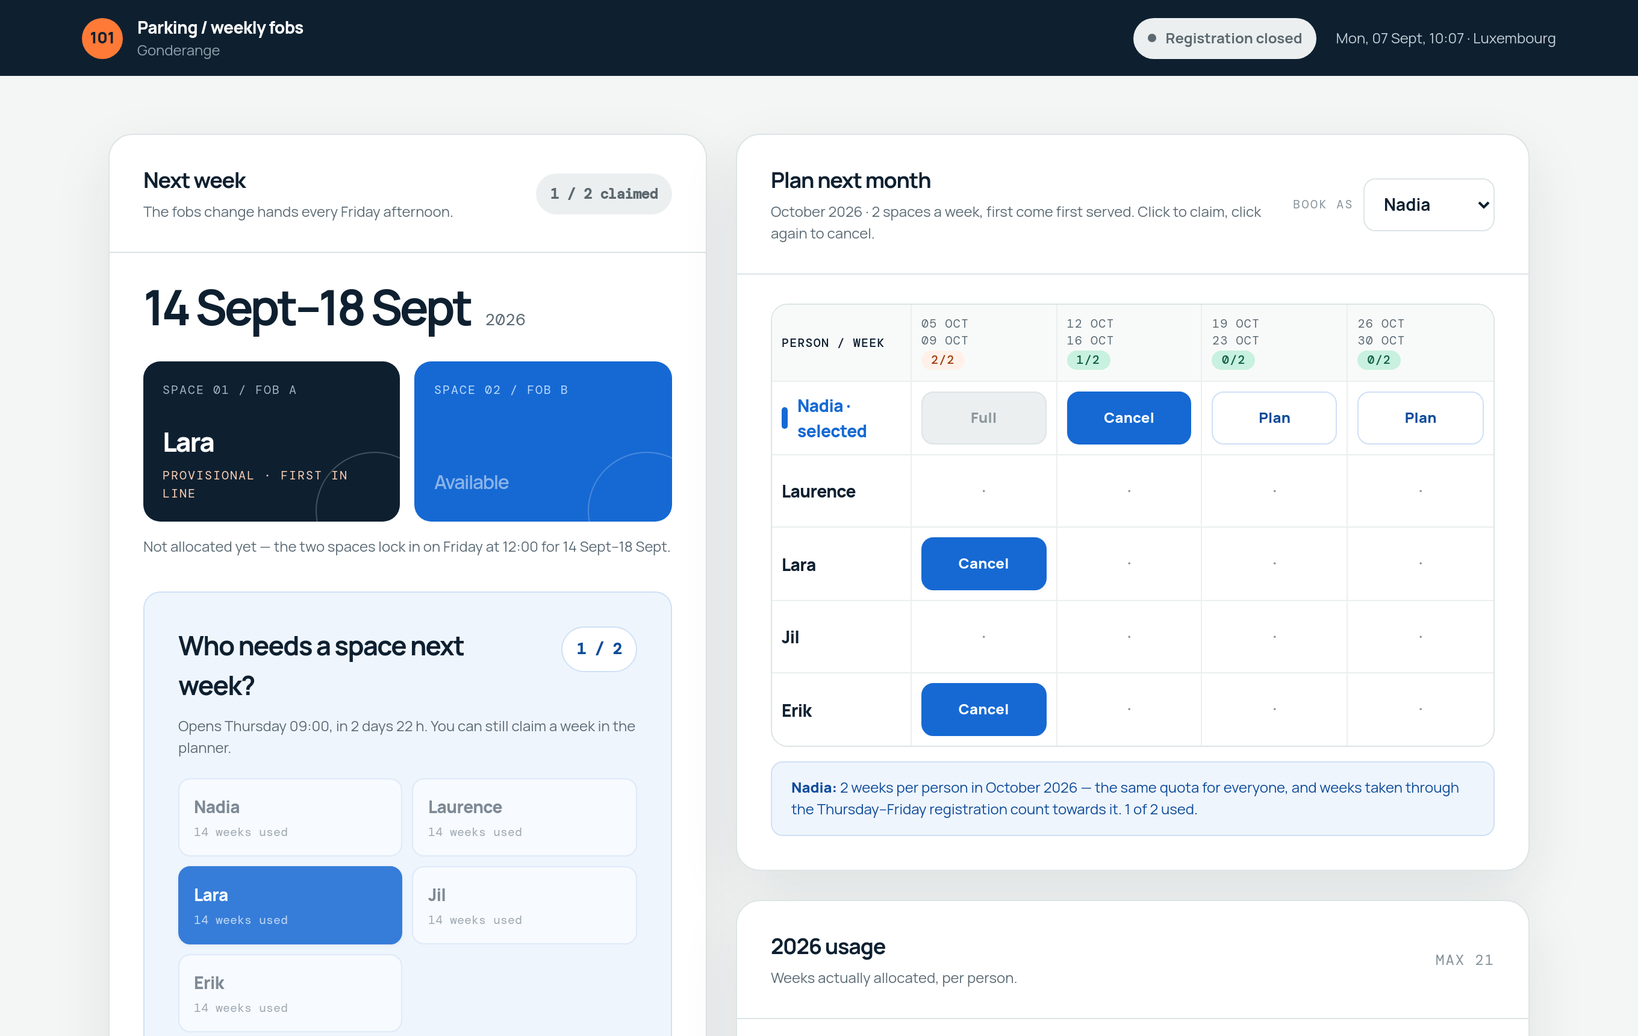
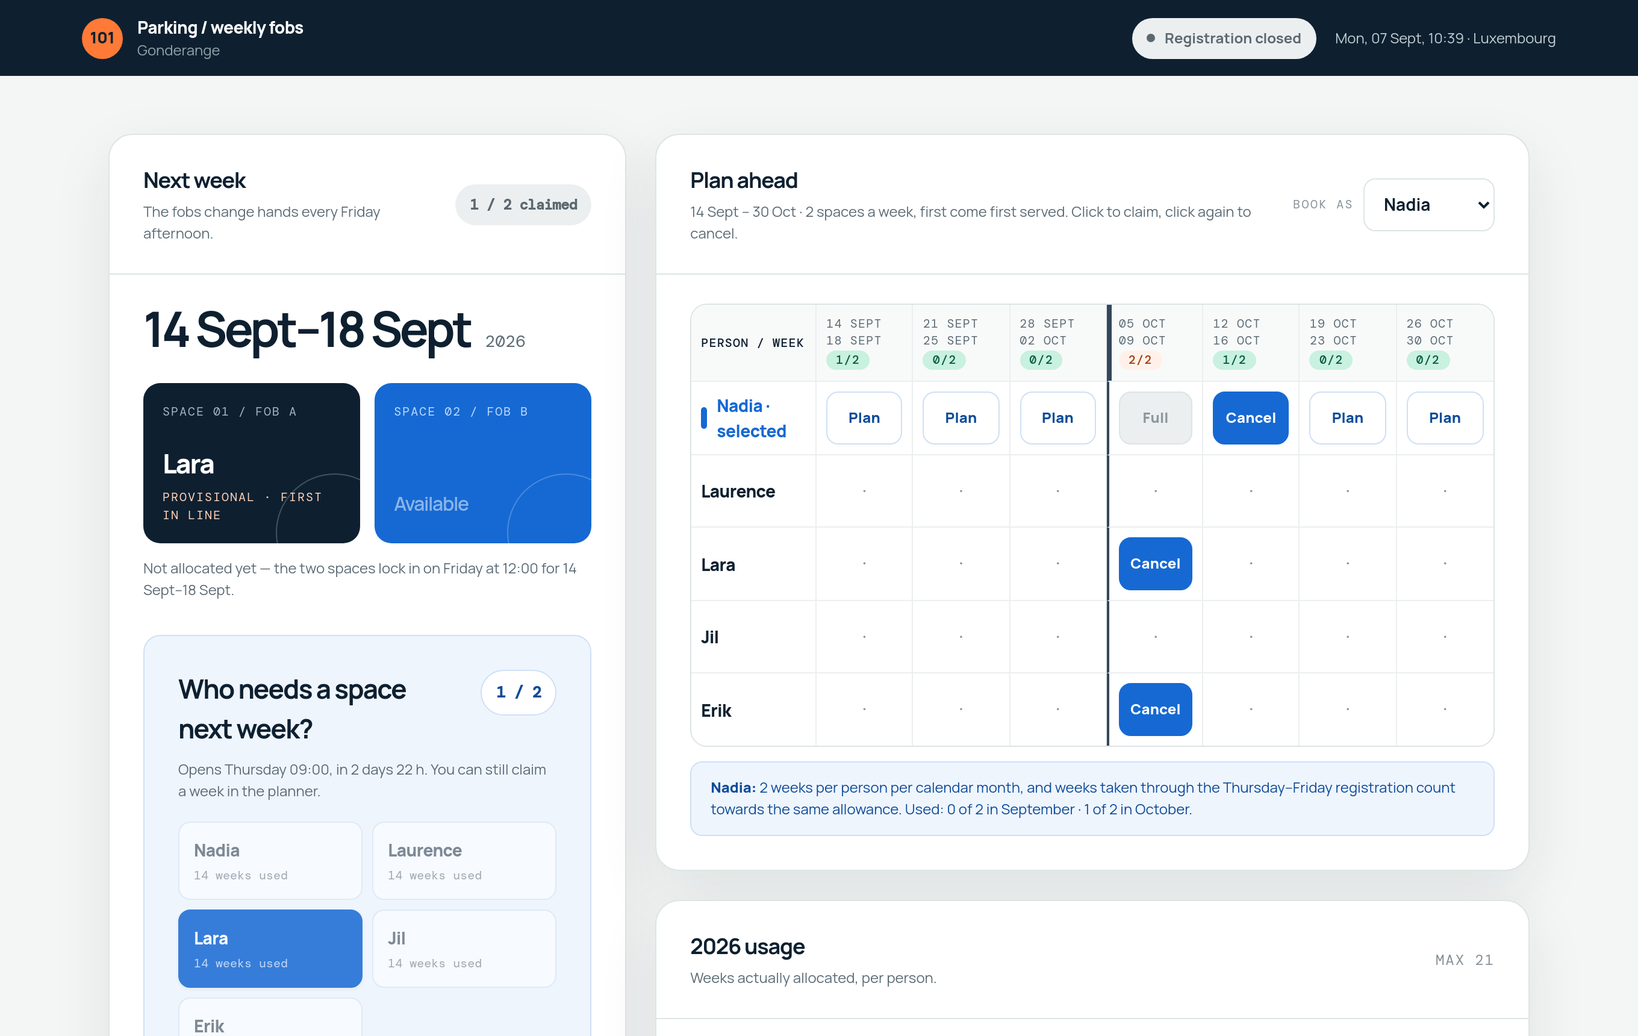
Open planning from next week, not from next month
Planning ran on next calendar month only, which left a dead zone across the rest
of the current one. On Monday 7 September the week of the 14th was seven days out
and unbookable by either route: the planner refused it as "not next month" and the
Thursday registration window had not opened yet. Both refusals were reproduced
before changing anything.

The horizon is now the coming Monday to the end of next month. That spans two
calendar months, so the two-a-month quota is billed to the month owning each week
rather than to next month wholesale, and the page carries usage for both. Booking
the 14th now lands in September's allowance, leaving October's untouched.

The grid grew with it. The horizon is 4 to 9 weeks depending on where the month
boundary falls, 9 on 54 days a decade, so the columns are sized for the widest
case instead of clipping the last one, with a rule marking where the quota resets
and a denser type size for the eight and nine column cases. On mobile the cards
group under a month heading.

The per-week "Holiday" label moved into the column header. A public holiday is a
property of the week, not of each person's cell, so it was being repeated five
times per week and it was the one label that would not fit a narrow column.

Verified: the running week and anything earlier are still refused, so is anything
past next month, each month keeps its own two weeks, and a plan on next week
interlocks with the weekly registration rather than opening a second pool.

diff --git a/parking.php b/parking.php
@@ -110,6 +110,25 @@ function parking_next_month(): array {
     return ['year' => (int)$first->format('Y'), 'month' => (int)$first->format('n'), 'value' => $first->format('Y-m')];
 }
 
+// Every week that can be planned right now: from the coming Monday to the end of next month.
+// Planning used to open on next month only, which left a dead zone across the rest of the
+// current one — on Monday the 7th nobody could claim the week of the 14th, because the
+// planner refused it and the Thursday registration window had not opened yet.
+function parking_planner_weeks(): array {
+    $tz = new DateTimeZone('Europe/Luxembourg');
+    $now = new DateTimeImmutable('now', $tz);
+    $from = parking_monday($now)->format('Y-m-d');
+    $next = parking_next_month();
+    $weeks = array_merge(
+        parking_month_weeks((int)$now->format('Y'), (int)$now->format('n')),
+        parking_month_weeks($next['year'], $next['month'])
+    );
+    // The running week and anything before it are settled already, so they drop out here.
+    $weeks = array_values(array_unique(array_filter($weeks, fn(string $w): bool => $w >= $from)));
+    sort($weeks);
+    return $weeks;
+}
+
 // A Monday–Friday week belongs to the month holding its Wednesday, so every week counts
 // towards exactly one monthly quota even when it straddles two months.
 function parking_month_weeks(int $year, int $month): array {
@@ -315,11 +334,20 @@ function parking_state(PDO $pdo): array {
     parking_auto_allocate($pdo, $nextWeek);
     $nextMonth = parking_next_month();
     $plans = array_fill_keys(PARKING_MEMBERS, []);
-    $planWeeks = parking_month_weeks($nextMonth['year'], $nextMonth['month']);
+    $planWeeks = parking_planner_weeks();
     $allowed = array_flip($planWeeks);
     $stmt = $pdo->prepare('SELECT member_name, week_start FROM monthly_plans WHERE week_start BETWEEN ? AND ? ORDER BY week_start');
-    $stmt->execute([$planWeeks[0] ?? "$nextMonth[value]-01", end($planWeeks) ?? "$nextMonth[value]-31"]);
+    $stmt->execute([$planWeeks[0], end($planWeeks)]);
     foreach ($stmt as $row) if (isset($allowed[$row['week_start']])) $plans[$row['member_name']][$row['week_start']] = true;
+    // The horizon spans two calendar months and the two-a-month quota is counted per month,
+    // so the page needs to know which month owns each week, and the usage for both.
+    $weekMonths = [];
+    $monthUsage = [];
+    foreach ($planWeeks as $planWeek) {
+        $month = parking_week_month($planWeek);
+        $weekMonths[$planWeek] = $month['value'];
+        if (!isset($monthUsage[$month['value']])) $monthUsage[$month['value']] = parking_month_usage($pdo, $month['year'], $month['month']);
+    }
     // Occupancy per planning week, counted across both booking routes. The grid used to
     // count monthly plans only, so at a month boundary it offered a week the server refuses.
     $planWeekUsage = array_fill_keys($planWeeks, 0);
@@ -347,6 +375,8 @@ function parking_state(PDO $pdo): array {
         'monthlyPlans' => $plans,
         'planWeeks' => $planWeeks,
         'planWeekUsage' => $planWeekUsage,
+        'weekMonths' => $weekMonths,
+        'monthUsage' => $monthUsage,
         'registrations' => $registrations,
         'plannedNextWeek' => parking_week_planned($pdo, $nextWeek),
         'weeklyRegistered' => parking_week_registered($pdo, $nextWeek),
@@ -356,7 +386,6 @@ function parking_state(PDO $pdo): array {
         'ledger' => parking_ledger($pdo, PARKING_START_YEAR, PARKING_END_YEAR),
         'startYear' => PARKING_START_YEAR,
         'endYear' => PARKING_END_YEAR,
-        'planMonthUsage' => parking_month_usage($pdo, $nextMonth['year'], $nextMonth['month']),
         'weekMonthUsage' => parking_month_usage($pdo, $weekMonth['year'], $weekMonth['month']),
         'currentYear' => (int)$now->format('Y'),
         'registrationOpen' => parking_registration_open(),
@@ -438,9 +467,12 @@ if ($_SERVER['REQUEST_METHOD'] === 'POST' && isset($_POST['action'])) {
                 $week = $weekDate->format('Y-m-d');
             }
             if ($weekDate->format('N') !== '1') parking_fail('A parking week must start on a Monday.');
-            $nextMonth = parking_next_month();
-            $allowedWeeks = parking_month_weeks($nextMonth['year'], $nextMonth['month']);
-            if (!in_array($week, $allowedWeeks, true)) parking_fail('Only weeks belonging to the next calendar month can be planned.');
+            if (!in_array($week, parking_planner_weeks(), true)) {
+                parking_fail('That week cannot be planned. Planning is open from next week to the end of next month.');
+            }
+            // The quota belongs to the month that owns the week, not to next month: the
+            // horizon now covers two months and each carries its own two-week allowance.
+            $planMonth = parking_week_month($week);
             parking_lock_week($pdo, $week);
             $pdo->beginTransaction();
             $exists = $pdo->prepare('SELECT COUNT(*) FROM monthly_plans WHERE member_name = ? AND week_start = ?');
@@ -448,8 +480,8 @@ if ($_SERVER['REQUEST_METHOD'] === 'POST' && isset($_POST['action'])) {
             if ($planned && (int)$exists->fetchColumn() === 0) {
                 // Every member gets PARKING_MONTHLY_MAX weeks a month. Weekly registrations
                 // count against the same quota, so the two routes cannot be combined to get more.
-                $booked = array_diff(parking_member_month_weeks($pdo, $member, $nextMonth['year'], $nextMonth['month']), [$week]);
-                if (count($booked) >= PARKING_MONTHLY_MAX) parking_fail(sprintf('%s has already booked %d weeks in %s, the monthly maximum.', $member, PARKING_MONTHLY_MAX, $nextMonth['value']));
+                $booked = array_diff(parking_member_month_weeks($pdo, $member, $planMonth['year'], $planMonth['month']), [$week]);
+                if (count($booked) >= PARKING_MONTHLY_MAX) parking_fail(sprintf('%s has already booked %d weeks in %s, the monthly maximum.', $member, PARKING_MONTHLY_MAX, $planMonth['value']));
                 // Someone at the annual maximum is skipped by the allocation, so letting them
                 // book would fill a candidate slot and then leave the space unused.
                 if (parking_annual_count($pdo, $member, $week) >= PARKING_ANNUAL_MAX) {
@@ -668,7 +700,7 @@ try {
     .lede { color: var(--muted); max-width: 62ch; margin: 0; font-size: var(--fs-md); line-height: 1.55; }
 
     /* ── Panels ──────────────────────────────────────────── */
-    .grid { display: grid; grid-template-columns: minmax(0, .92fr) minmax(0, 1.22fr); gap: var(--s5); align-items: start; }
+    .grid { display: grid; grid-template-columns: minmax(0, .8fr) minmax(0, 1.35fr); gap: var(--s5); align-items: start; }
     .panel { background: var(--white); border: 1px solid var(--line); border-radius: var(--radius); box-shadow: var(--shadow); overflow: hidden; }
     .panel-head { display: flex; justify-content: space-between; align-items: center; gap: var(--s4); border-bottom: 1px solid var(--line); padding: var(--s5) var(--pad); }
     .panel-title { margin: 0; font-size: var(--fs-lg); letter-spacing: -.035em; }
@@ -764,6 +796,12 @@ try {
     .planner-grid > div { min-height: 60px; padding: var(--s2); border-right: 1px solid var(--line-soft); border-bottom: 1px solid var(--line-soft); display: flex; align-items: center; }
     .planner-grid > div.row-end { border-right: 0; }
     .plan-idle { width: 100%; text-align: center; color: var(--faint); font-family: 'DM Mono', monospace; font-size: var(--fs-xs); }
+    /* Where one calendar month ends and the next begins — the quota resets on that line. */
+    .planner-grid > div.month-break { border-left: 2px solid var(--ink-soft); }
+    .planner-grid .planner-head-cell.month-break { box-shadow: inset 2px 0 0 var(--ink-soft); }
+    .planner-grid.is-dense .plan-cell { padding-left: 4px; padding-right: 4px; font-size: 11px; letter-spacing: -.01em; }
+    .head-holiday { display: inline-block; margin-top: 3px; padding: 1px 5px; border-radius: 99px; background: var(--orange-soft); color: var(--orange-ink); font-size: var(--fs-micro); letter-spacing: .04em; }
+    .week-card-month { margin: var(--s3) 0 0; font-family: 'DM Mono', monospace; font-size: var(--fs-micro); letter-spacing: .12em; text-transform: uppercase; color: var(--faint); }
     .planner-grid > div.last-row { border-bottom: 0; }
     .planner-grid .planner-head-cell { min-height: 64px; background: var(--wash); color: var(--muted); font-family: 'DM Mono', monospace; font-size: var(--fs-micro); letter-spacing: .06em; text-transform: uppercase; flex-direction: column; justify-content: center; align-items: flex-start; gap: 2px; line-height: 1.35; }
     .planner-grid .planner-corner { color: var(--ink); font-weight: 500; }
@@ -979,7 +1017,7 @@ try {
         <div class="stack">
           <section class="panel view-month" aria-live="polite">
           <div class="panel-head">
-            <div><h2 class="panel-title">Plan next month</h2><p class="panel-caption month-planner-caption"></p></div>
+            <div><h2 class="panel-title">Plan ahead</h2><p class="panel-caption month-planner-caption"></p></div>
             <div class="sec-aside month-planner-controls"><label class="mono sec-eyebrow" for="plannerUser">Book as</label><select id="plannerUser" aria-label="Select the person booking parking"></select></div>
           </div>
           <div class="month-body">
@@ -1083,10 +1121,11 @@ try {
       state.plannedNextWeek = serverState.plannedNextWeek || [];
       state.allocations = serverState.allocations || [];
       state.fobLog = serverState.fobLog || [];
-      state.planMonthUsage = serverState.planMonthUsage || {};
       state.weekMonthUsage = serverState.weekMonthUsage || {};
       state.planWeeks = serverState.planWeeks || [];
       state.planWeekUsage = serverState.planWeekUsage || {};
+      state.weekMonths = serverState.weekMonths || {};
+      state.monthUsage = serverState.monthUsage || {};
       state.ledger = serverState.ledger || state.ledger;
       // Europe/Luxembourg dates, decided by the server. Recomputing them from the browser
       // clock made a tab in another timezone — or simply one open past midnight — render and
@@ -1287,53 +1326,72 @@ try {
     }
     function renderPlanner() {
       const grid = document.getElementById('plannerGrid');
-      const nextMonth = getNextPlanningMonth();
-      const weeks = (state.planWeeks || []).map(parseDateKey);
+      const weekKeys = state.planWeeks || [];
+      const weeks = weekKeys.map(parseDateKey);
       const active = state.currentUser;
       const activePlans = state.monthlyPlans[active] || {};
       const monthlyLimit = MONTHLY_MAX;
-      // Counted by the server, so a week taken through the weekly registration also
-      // fills part of the monthly quota.
-      const activePlanCount = (state.planMonthUsage || {})[active] ?? Object.keys(activePlans).length;
+      // The horizon runs from next week to the end of next month, so it straddles two
+      // calendar months and each carries its own quota. Counted by the server, so a week
+      // taken through the weekly registration fills part of the same allowance.
+      const monthOf = key => (state.weekMonths || {})[key];
+      const usedIn = (month, name) => ((state.monthUsage || {})[month] || {})[name] || 0;
+      const monthLabelOf = month => fmt(parseDateKey(month + '-01'), { month: 'long', year: 'numeric' });
+      const monthsShown = [...new Set(weekKeys.map(monthOf))].filter(Boolean);
       // Occupancy across both booking routes, counted by the server. Counting monthly plans
       // alone showed a free space on weeks the weekly registration had already filled.
       const takenPerWeek = state.planWeekUsage || {};
       // Someone at the annual maximum is skipped by the allocation, so the server refuses
       // the booking; grey the week out rather than letting the click fail.
       const atAnnualCap = year => (((state.ledger[year] || {}).usage || {})[active] || 0) >= ANNUAL_MAX;
-      const monthLabel = fmt(new Date(nextMonth.year, nextMonth.monthIndex, 1), { month: 'long', year: 'numeric' });
-      document.querySelector('.month-planner-caption').textContent = `${monthLabel} · ${SPACES} spaces a week, first come first served. Click to claim, click again to cancel.`;
-      document.getElementById('plannerLimit').innerHTML = `<strong>${active}:</strong> ${monthlyLimit} week${monthlyLimit === 1 ? '' : 's'} per person in ${monthLabel} — the same quota for everyone, and weeks taken through the Thursday–Friday registration count towards it. ${activePlanCount} of ${monthlyLimit} used.`;
-      const header = ['<div class="planner-head-cell planner-corner">Person / week</div>', ...weeks.map(week => {
-        const taken = takenPerWeek[localDateKey(week)] || 0;
-        return `<div class="planner-head-cell">${fmt(week, { day: '2-digit', month: 'short' })}<br>${fmt(addDays(week, 4), { day: '2-digit', month: 'short' })}<br><span class="planner-head-seats ${taken >= SPACES ? 'is-full' : ''}">${taken}/${SPACES}</span></div>`;
+      const span = weeks.length
+        ? `${fmt(weeks[0], { day: '2-digit', month: 'short' })} – ${fmt(addDays(weeks[weeks.length - 1], 4), { day: '2-digit', month: 'short' })}`
+        : '';
+      document.querySelector('.month-planner-caption').textContent = `${span} · ${SPACES} spaces a week, first come first served. Click to claim, click again to cancel.`;
+      const quota = monthsShown.map(m => `${usedIn(m, active)} of ${monthlyLimit} in ${monthLabelOf(m).split(' ')[0]}`).join(' · ');
+      document.getElementById('plannerLimit').innerHTML = `<strong>${active}:</strong> ${monthlyLimit} weeks per person per calendar month, and weeks taken through the Thursday–Friday registration count towards the same allowance. Used: ${quota}.`;
+      const header = ['<div class="planner-head-cell planner-corner">Person / week</div>', ...weeks.map((week, i) => {
+        const key = weekKeys[i];
+        const taken = takenPerWeek[key] || 0;
+        // Mark where one calendar month ends and the next begins, since the quota resets there.
+        const newMonth = i > 0 && monthOf(key) !== monthOf(weekKeys[i - 1]);
+        const hol = luxembourgHolidays(week.getFullYear()).filter(item => item.date >= week && item.date <= addDays(week, 4));
+        const holMark = hol.length
+          ? `<span class="head-holiday" title="${hol.map(x => `${x.name}, ${fmt(x.date, { weekday: 'long' })}`).join(' · ')}" aria-label="Public holiday this week">Holiday</span>`
+          : '';
+        return `<div class="planner-head-cell ${newMonth ? 'month-break' : ''}">${fmt(week, { day: '2-digit', month: 'short' })}<br>${fmt(addDays(week, 4), { day: '2-digit', month: 'short' })}<br><span class="planner-head-seats ${taken >= SPACES ? 'is-full' : ''}">${taken}/${SPACES}</span>${holMark}</div>`;
       })].join('');
       const rows = people.map(name => {
         const isActive = name === active;
         const plans = state.monthlyPlans[name] || {};
         const personCell = `<div><span class="planner-person ${isActive ? 'active' : ''}">${name}${isActive ? ' · selected' : ''}</span></div>`;
-        const weekCells = weeks.map(week => {
-          const key = localDateKey(week);
+        const weekCells = weeks.map((week, i) => {
+          const key = weekKeys[i];
           const holiday = luxembourgHolidays(week.getFullYear()).some(item => item.date >= week && item.date <= addDays(week, 4));
           const planned = Boolean(plans[key]);
           const canChange = planned || isActive;
-          const limitReached = !planned && isActive && (activePlanCount >= monthlyLimit || atAnnualCap(week.getFullYear()));
+          const newMonth = i > 0 && monthOf(key) !== monthOf(weekKeys[i - 1]);
+          const limitReached = !planned && isActive && (usedIn(monthOf(key), active) >= monthlyLimit || atAnnualCap(week.getFullYear()));
           const weekFull = !planned && (takenPerWeek[key] || 0) >= SPACES;
           const disabled = !canChange || limitReached || weekFull;
           const seats = `${takenPerWeek[key] || 0} of ${SPACES} spaces taken`;
           const aria = `${name}, week of ${fmt(week, { day: '2-digit', month: 'long', year: 'numeric' })}, ${planned ? 'planned' : 'not planned'}, ${seats}`;
           // Somebody else's empty cell is information, not a control.
-          if (!canChange) return `<div><span class="plan-idle" aria-label="${aria}" title="${seats}">${holiday ? 'Holiday' : '·'}</span></div>`;
-          const label = planned ? 'Cancel' : weekFull ? 'Full' : limitReached ? 'Limit' : holiday ? 'Holiday' : 'Plan';
-          return `<div><button class="plan-cell ${planned ? 'selected' : ''} ${holiday ? 'holiday-plan' : ''} ${limitReached || weekFull ? 'locked' : ''}" data-week="${key}" data-person="${name}" ${disabled ? 'disabled' : ''} aria-label="${aria}" title="${seats}">${label}</button></div>`;
+          if (!canChange) return `<div class="${newMonth ? 'month-break' : ''}"><span class="plan-idle" aria-label="${aria}" title="${seats}">·</span></div>`;
+          const label = planned ? 'Cancel' : weekFull ? 'Full' : limitReached ? 'Limit' : 'Plan';
+          return `<div class="${newMonth ? 'month-break' : ''}"><button class="plan-cell ${planned ? 'selected' : ''} ${holiday ? 'holiday-plan' : ''} ${limitReached || weekFull ? 'locked' : ''}" data-week="${key}" data-person="${name}" ${disabled ? 'disabled' : ''} aria-label="${aria}" title="${seats}">${label}</button></div>`;
         }).join('');
         return personCell + weekCells;
       }).join('');
       grid.innerHTML = header + rows;
       // The template follows however many weeks the month has. Borders are marked per cell
       // rather than with nth-child, which only worked for one particular column count.
-      grid.style.gridTemplateColumns = `minmax(88px, 116px) repeat(${weeks.length}, minmax(82px, 1fr))`;
-      grid.style.minWidth = `${88 + weeks.length * 82}px`;
+      // The horizon is 4-9 weeks depending on where the month boundary falls (9 on 54 days a
+      // decade), so the cells are sized to fit the widest case rather than clip its last column.
+      grid.style.gridTemplateColumns = `minmax(76px, 104px) repeat(${weeks.length}, minmax(64px, 1fr))`;
+      grid.style.minWidth = `${76 + weeks.length * 64}px`;
+      // Eight or nine columns leave "Cancel" a few pixels short at the normal size.
+      grid.classList.toggle('is-dense', weeks.length >= 8);
       const columns = weeks.length + 1;
       const cells = [...grid.children];
       cells.forEach((cell, index) => {
@@ -1343,17 +1401,20 @@ try {
 
       // Narrow screens get one card per week instead of the people x weeks matrix,
       // which would otherwise need ~660px of horizontal scrolling to use.
-      document.getElementById('plannerCards').innerHTML = weeks.map(week => {
-        const key = localDateKey(week);
+      document.getElementById('plannerCards').innerHTML = weeks.map((week, i) => {
+        const key = weekKeys[i];
         const taken = takenPerWeek[key] || 0;
         const holders = people.filter(name => (state.monthlyPlans[name] || {})[key]);
         const holiday = luxembourgHolidays(week.getFullYear()).some(item => item.date >= week && item.date <= addDays(week, 4));
         const planned = holders.includes(active);
-        const limitReached = !planned && (activePlanCount >= monthlyLimit || atAnnualCap(week.getFullYear()));
+        const limitReached = !planned && (usedIn(monthOf(key), active) >= monthlyLimit || atAnnualCap(week.getFullYear()));
+        // Cards run continuously down the screen, so name the month when it turns over.
+        const monthHeading = (i === 0 || monthOf(key) !== monthOf(weekKeys[i - 1]))
+          ? `<div class="week-card-month">${monthLabelOf(monthOf(key))}</div>` : '';
         const weekFull = !planned && taken >= SPACES;
         const label = planned ? `Cancel ${active}’s plan` : weekFull ? 'Week full' : limitReached ? `${active} has reached the monthly limit` : `Plan this week as ${active}`;
         const range = `${fmt(week, { day: '2-digit', month: 'short' })} – ${fmt(addDays(week, 4), { day: '2-digit', month: 'short' })}`;
-        return `<div class="week-card ${weekFull ? 'is-full' : ''} ${planned ? 'is-mine' : ''}">
+        return monthHeading + `<div class="week-card ${weekFull ? 'is-full' : ''} ${planned ? 'is-mine' : ''}">
           <div class="week-card-top">
             <div>
               <div class="week-card-date">${range}</div>

diff --git a/README.md b/README.md
@@ -23,18 +23,24 @@ The point of the app is that these are checked on the server, not left to good m
 | Spaces in the garage | **2** |
 | Weeks per person per month | **2** |
 | Weeks per person per year | **21** |
+| Planning horizon | **Next week → end of next month** |
 | Registration window | **Thursday 09:00 → Friday 12:00** (Europe/Luxembourg) |
 | Allocation | Friday 12:00, to whoever booked the week first |
 
 Two ways to claim a week, sharing one quota:
 
-- **The monthly planner** — claim a week of next month whenever you like.
+- **The planner** — claim any week from next week to the end of next month, at any time.
 - **The weekly registration** — grab whatever is still free for next week, during the
   Thursday–Friday window.
 
 A week taken through either route counts the same, so the two cannot be combined to get a
 third week. A Monday–Friday week belongs to the month holding its **Wednesday**, so a week
-straddling two months counts against exactly one of them.
+straddling two months counts against exactly one of them — and because the horizon spans two
+calendar months, each carries its own two-week allowance.
+
+The planner starts at *next* week rather than next month for a reason: it used to open on
+next month only, which left a dead zone. On Monday the 7th nobody could claim the week of the
+14th, because the planner refused it and the Thursday registration window had not opened yet.
 
 At Friday noon the two spaces go to the two people who booked the week earliest. Anyone
 already at 21 weeks for the year is skipped and the space passes down the queue.
